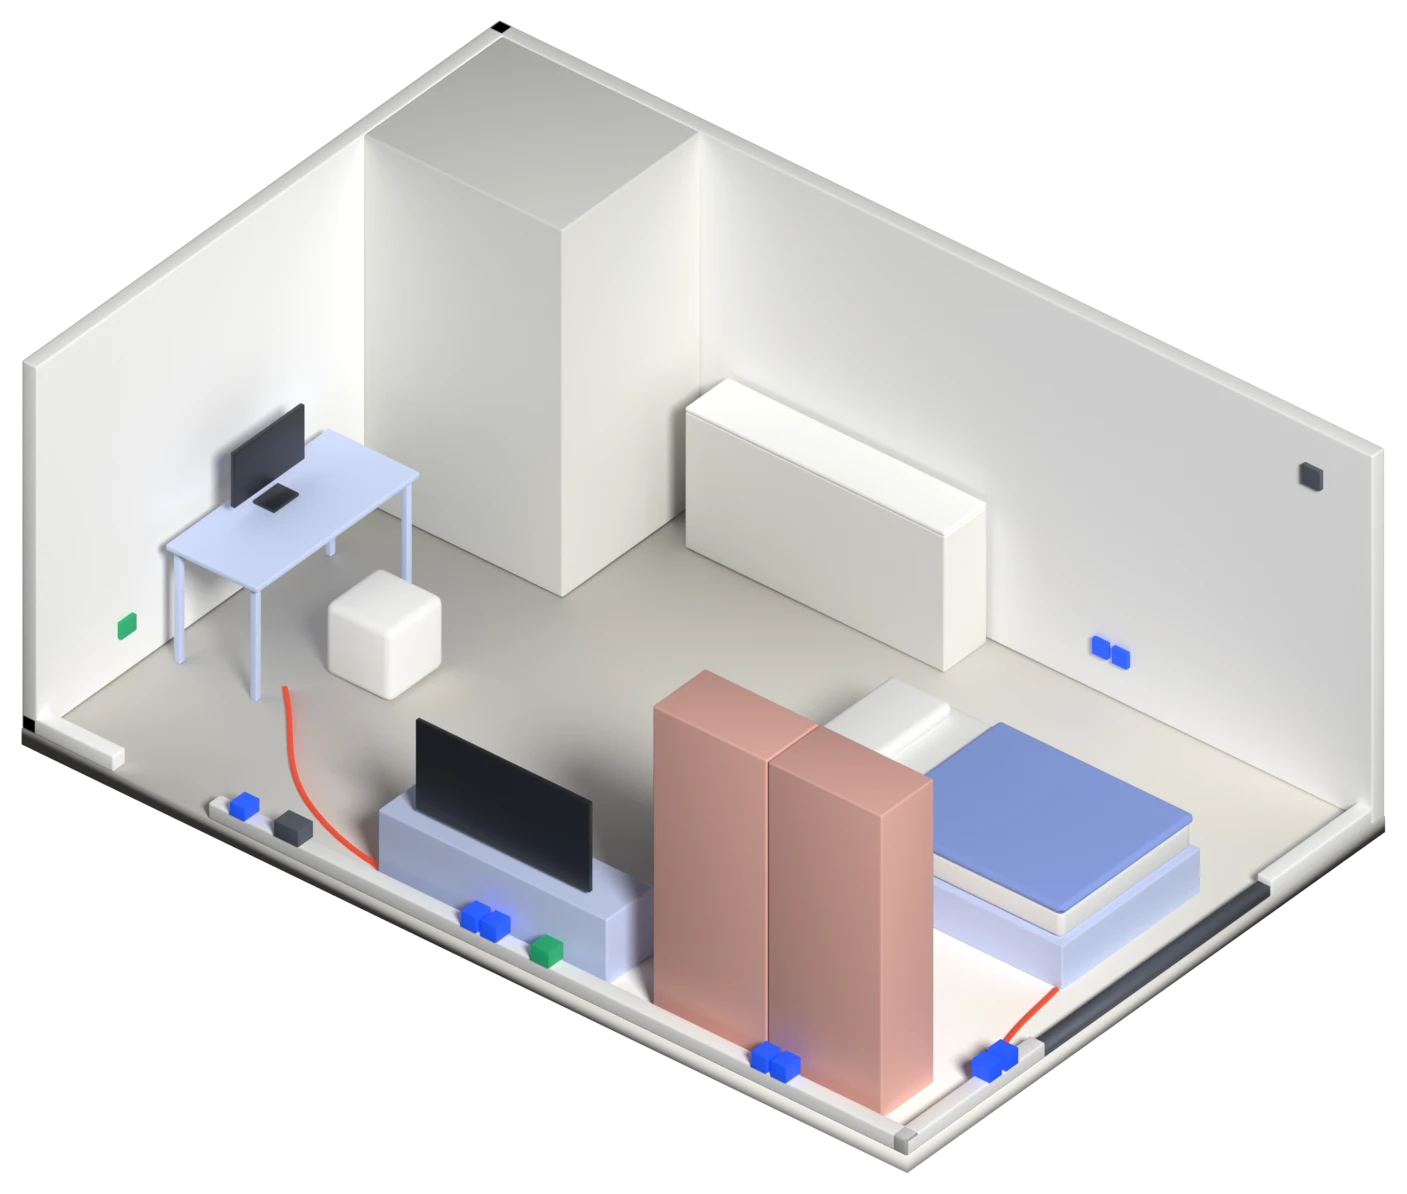
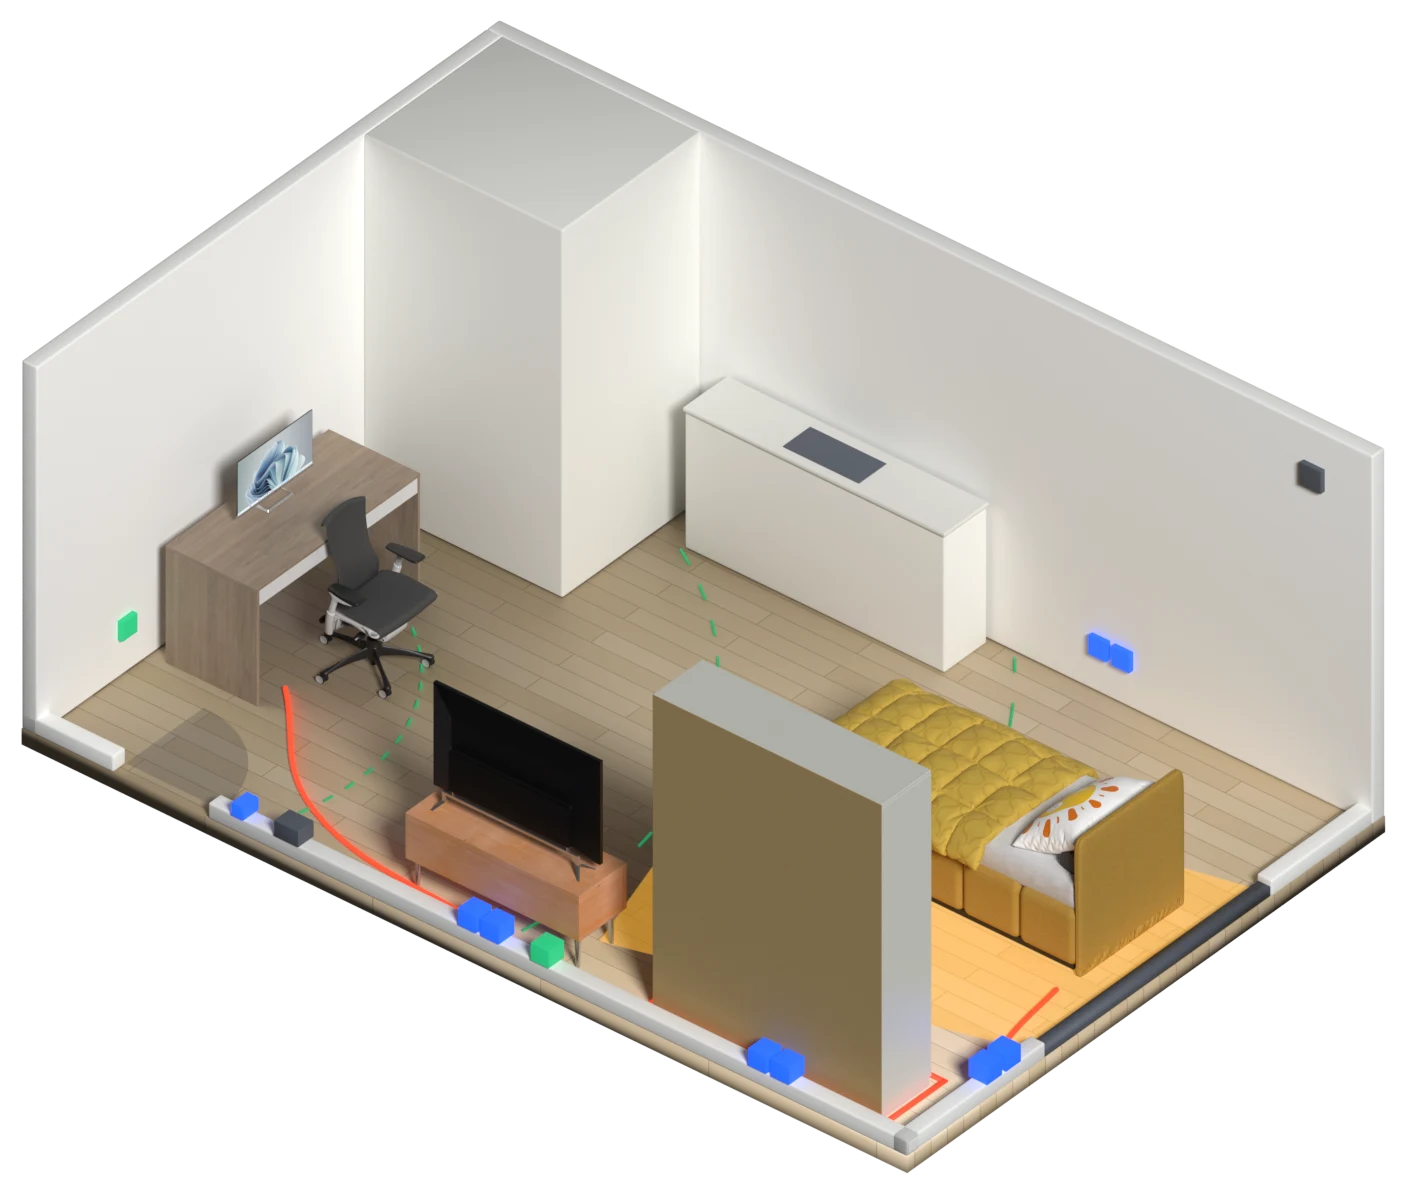
PLUGIN: 실물 가구 3D 방, 속도면 장도 3D로

diff --git a/plugin/index.html b/plugin/index.html
@@ -63,8 +63,9 @@ dd{font-size:clamp(15px,1.4vw,19px);font-weight:600;line-height:1.5;letter-spaci
 #s0{padding-bottom:max(48px,7vh)}
 #s0 .hero{margin-top:clamp(8px,2vh,20px)}
 #s0 .hero img{height:100%;width:100%;object-fit:contain}
-.r3{position:relative;aspect-ratio:1407/1194;width:min(100%,calc((100vh - 330px) * 1407 / 1194));margin-inline:auto}
+.r3{position:relative;aspect-ratio:1406/1194;width:min(100%,calc((100vh - 330px) * 1406 / 1194));margin-inline:auto}
 .r3 img{position:absolute;inset:0;width:100%;height:100%}
+.r3 .L{opacity:0;transition:opacity .7s ease}.r3 .L.show{opacity:1}
 #s9 .bd{align-items:center;text-align:center}
 #s9 h2{font-size:clamp(32px,5.2vw,80px);line-height:1.18;margin-top:20px}
 /* 도면 */
@@ -140,7 +141,7 @@ dd{font-size:clamp(15px,1.4vw,19px);font-weight:600;line-height:1.5;letter-spaci
   <p class="chip">집의 벽 속까지 읽는 가구 배치</p>
   <h1>PLUG<span style="color:var(--blue)">IN</span></h1>
   <p class="sub">내 살림이 새집에 꽂히는 자리를 찾는다</p>
-  <div class="hero"><img src="assets/room2.webp" alt="" width="1407" height="1194"></div>
+  <div class="hero"><img src="assets/room2.webp" alt="" width="1406" height="1194"></div>
 </section>
 
 <section class="sl" id="s1">
@@ -176,7 +177,7 @@ dd{font-size:clamp(15px,1.4vw,19px);font-weight:600;line-height:1.5;letter-spaci
 <section class="sl" id="s3" data-steps="4">
   <div><p class="chip">03 · 속도면</p><h2>평면도에 없는 것을 읽는다</h2></div>
   <div class="bd"><div class="two">
-    <svg class="plan" id="planA" viewBox="0 0 640 440" role="img" aria-label="원룸 평면도 위에 콘센트, 랜선 단자, 설비, 햇빛, 와이파이 범위가 차례로 겹쳐진다"></svg>
+    <div class="r3" id="planA" role="img" aria-label="빈 원룸 위에 콘센트, 랜선 단자, 설비, 햇빛, 와이파이 범위가 차례로 겹쳐진다"><img class="L show" data-from="0" src="assets/step0.webp" alt="" width="1406" height="1194"><img class="L" data-from="1" src="assets/step1.webp" alt="" width="1406" height="1194"><img class="L" data-from="2" src="assets/step2.webp" alt="" width="1406" height="1194"><img class="L" data-from="3" src="assets/step3.webp" alt="" width="1406" height="1194"><img class="L" data-from="4" src="assets/step4.webp" alt="" width="1406" height="1194"></div>
     <ol class="layers" id="layers">
       <li class="show"><i style="background:#111318"></i><b>벽과 치수</b><span>지금의 도구가 보는 것은 여기까지</span></li>
       <li><i style="background:#1F4FE0"></i><b>전기</b><span>콘센트 위치와 구 수, 전등 스위치</span></li>
@@ -190,7 +191,7 @@ dd{font-size:clamp(15px,1.4vw,19px);font-weight:600;line-height:1.5;letter-spaci
 <section class="sl" id="s4" data-steps="2">
   <div><p class="chip">04 · 꽂기</p><h2>같은 가구, 같은 방, 다른 결과</h2></div>
   <div class="bd"><div class="two">
-    <div class="r3" id="planB" role="img" aria-label="같은 방에 가구를 세 가지 방식으로 놓은 모습"><img class="lay" data-lay="0" src="assets/room0.webp" alt="" width="1407" height="1194"><img class="lay" data-lay="1" src="assets/room1.webp" alt="" width="1407" height="1194"><img class="lay" data-lay="2" src="assets/room2.webp" alt="" width="1407" height="1194"></div>
+    <div class="r3" id="planB" role="img" aria-label="같은 방에 가구를 세 가지 방식으로 놓은 모습"><img class="lay" data-lay="0" src="assets/room0.webp" alt="" width="1406" height="1194"><img class="lay" data-lay="1" src="assets/room1.webp" alt="" width="1406" height="1194"><img class="lay" data-lay="2" src="assets/room2.webp" alt="" width="1406" height="1194"></div>
     <div>
       <div class="tabs" id="tabs"><button>A · 창가에 침대</button><button>B · 창가에 책상</button><button class="best">C · PLUGIN 추천</button></div>
       <div class="score"><div><b id="sc1">5/9</b><small>벽 콘센트로 해결</small></div><div><b id="sc2">2</b><small>필요한 멀티탭</small></div><div><b id="sc3">1</b><small>가려지는 단자</small></div></div>
@@ -281,7 +282,6 @@ dd{font-size:clamp(15px,1.4vw,19px);font-weight:600;line-height:1.5;letter-spaci
       sc: ['9/9', '0', '0'], why: [['g', '책상 뒤에 콘센트 2구가 오고, 해를 등지고 앉습니다.'], ['g', '침대 머리맡에 콘센트 2구가 옵니다.'], ['g', 'TV 뒤에 콘센트와 TV 단자가 함께 옵니다.'], ['g', '공유기를 랜선 단자 옆 선반 위에 올려 방 전체에 닿게 합니다.'], ['g', '옷장은 쓰지 않을 1구 콘센트 쪽 벽에 붙입니다.']] }
   ];
   var pA = document.getElementById('planA'), pB = document.getElementById('planB');
-  pA.innerHTML = base() + layers();
 
   // ── 넘기기 ──
   var S = [].slice.call(document.querySelectorAll('.sl')), cur = 0, st = S.map(function(){ return 0; });
